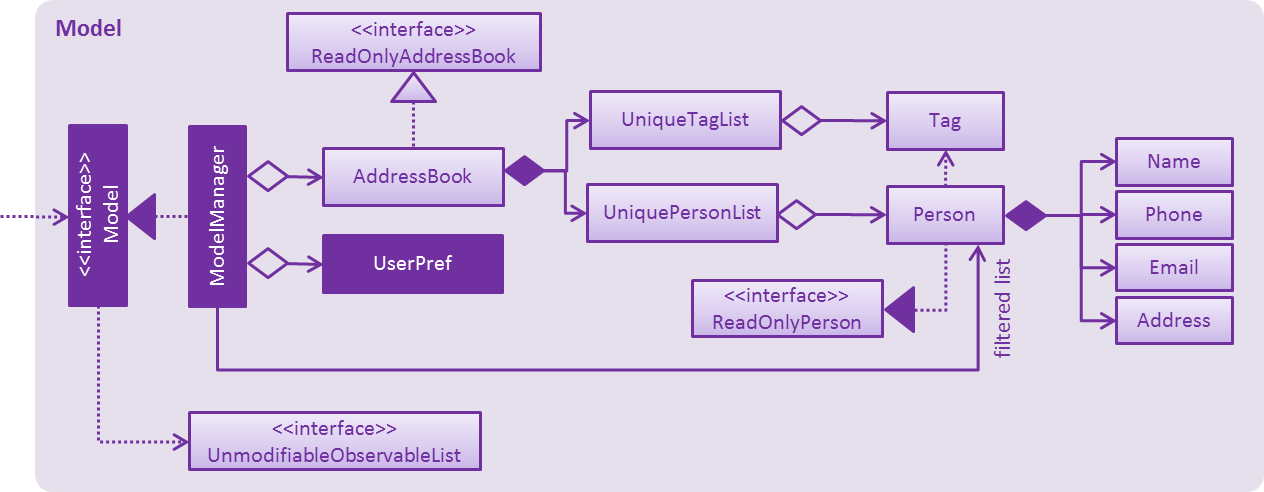
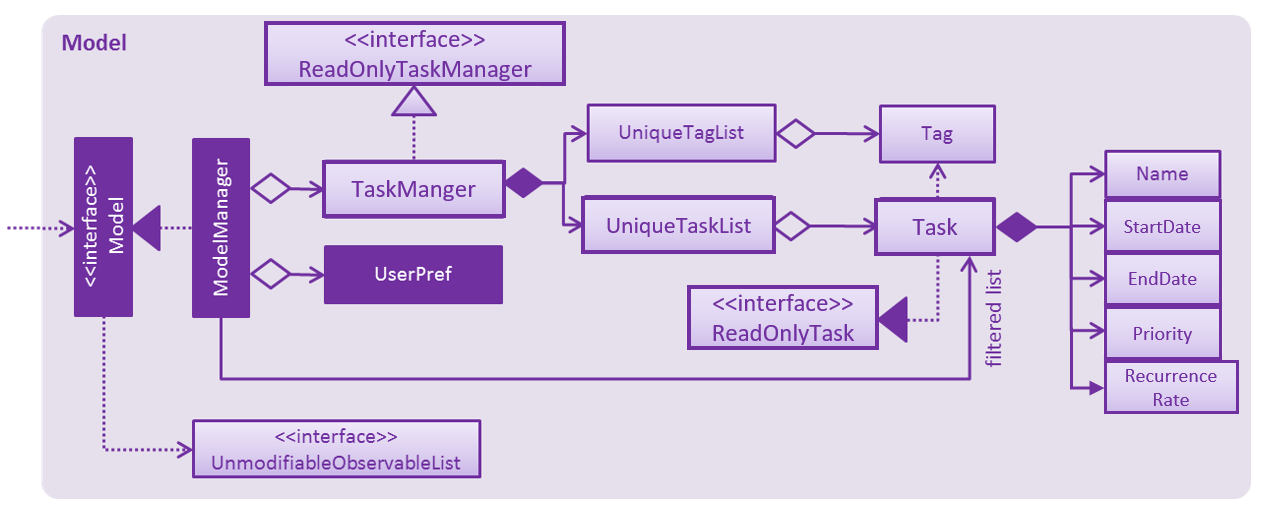
Update model class diagram and sd for delete task

Changed region(s): [[0.0, 0.0, 1.0, 1.0], [0.2468, 0.5793, 0.4011, 0.6098], [0.2468, 0.4573, 0.4011, 0.4878]]

diff --git a/docs/DeveloperGuide.md b/docs/DeveloperGuide.md
@@ -75,9 +75,9 @@ interface and exposes its functionality using the `LogicManager.java` class.<br>
 <img src="images/LogicClassDiagram.png" width="800"><br>
 
 The _Sequence Diagram_ below shows how the components interact for the scenario where the user issues the
-command `delete 3`.
+command `delete 1`.
 
-<img src="images\SDforDeletePerson.png" width="800">
+<img src="images\SDforDeleteTask.png" width="800">
 
 >Note how the `Model` simply raises a `AddressBookChangedEvent` when the Address Book data are changed,
  instead of asking the `Storage` to save the updates to the hard disk.
